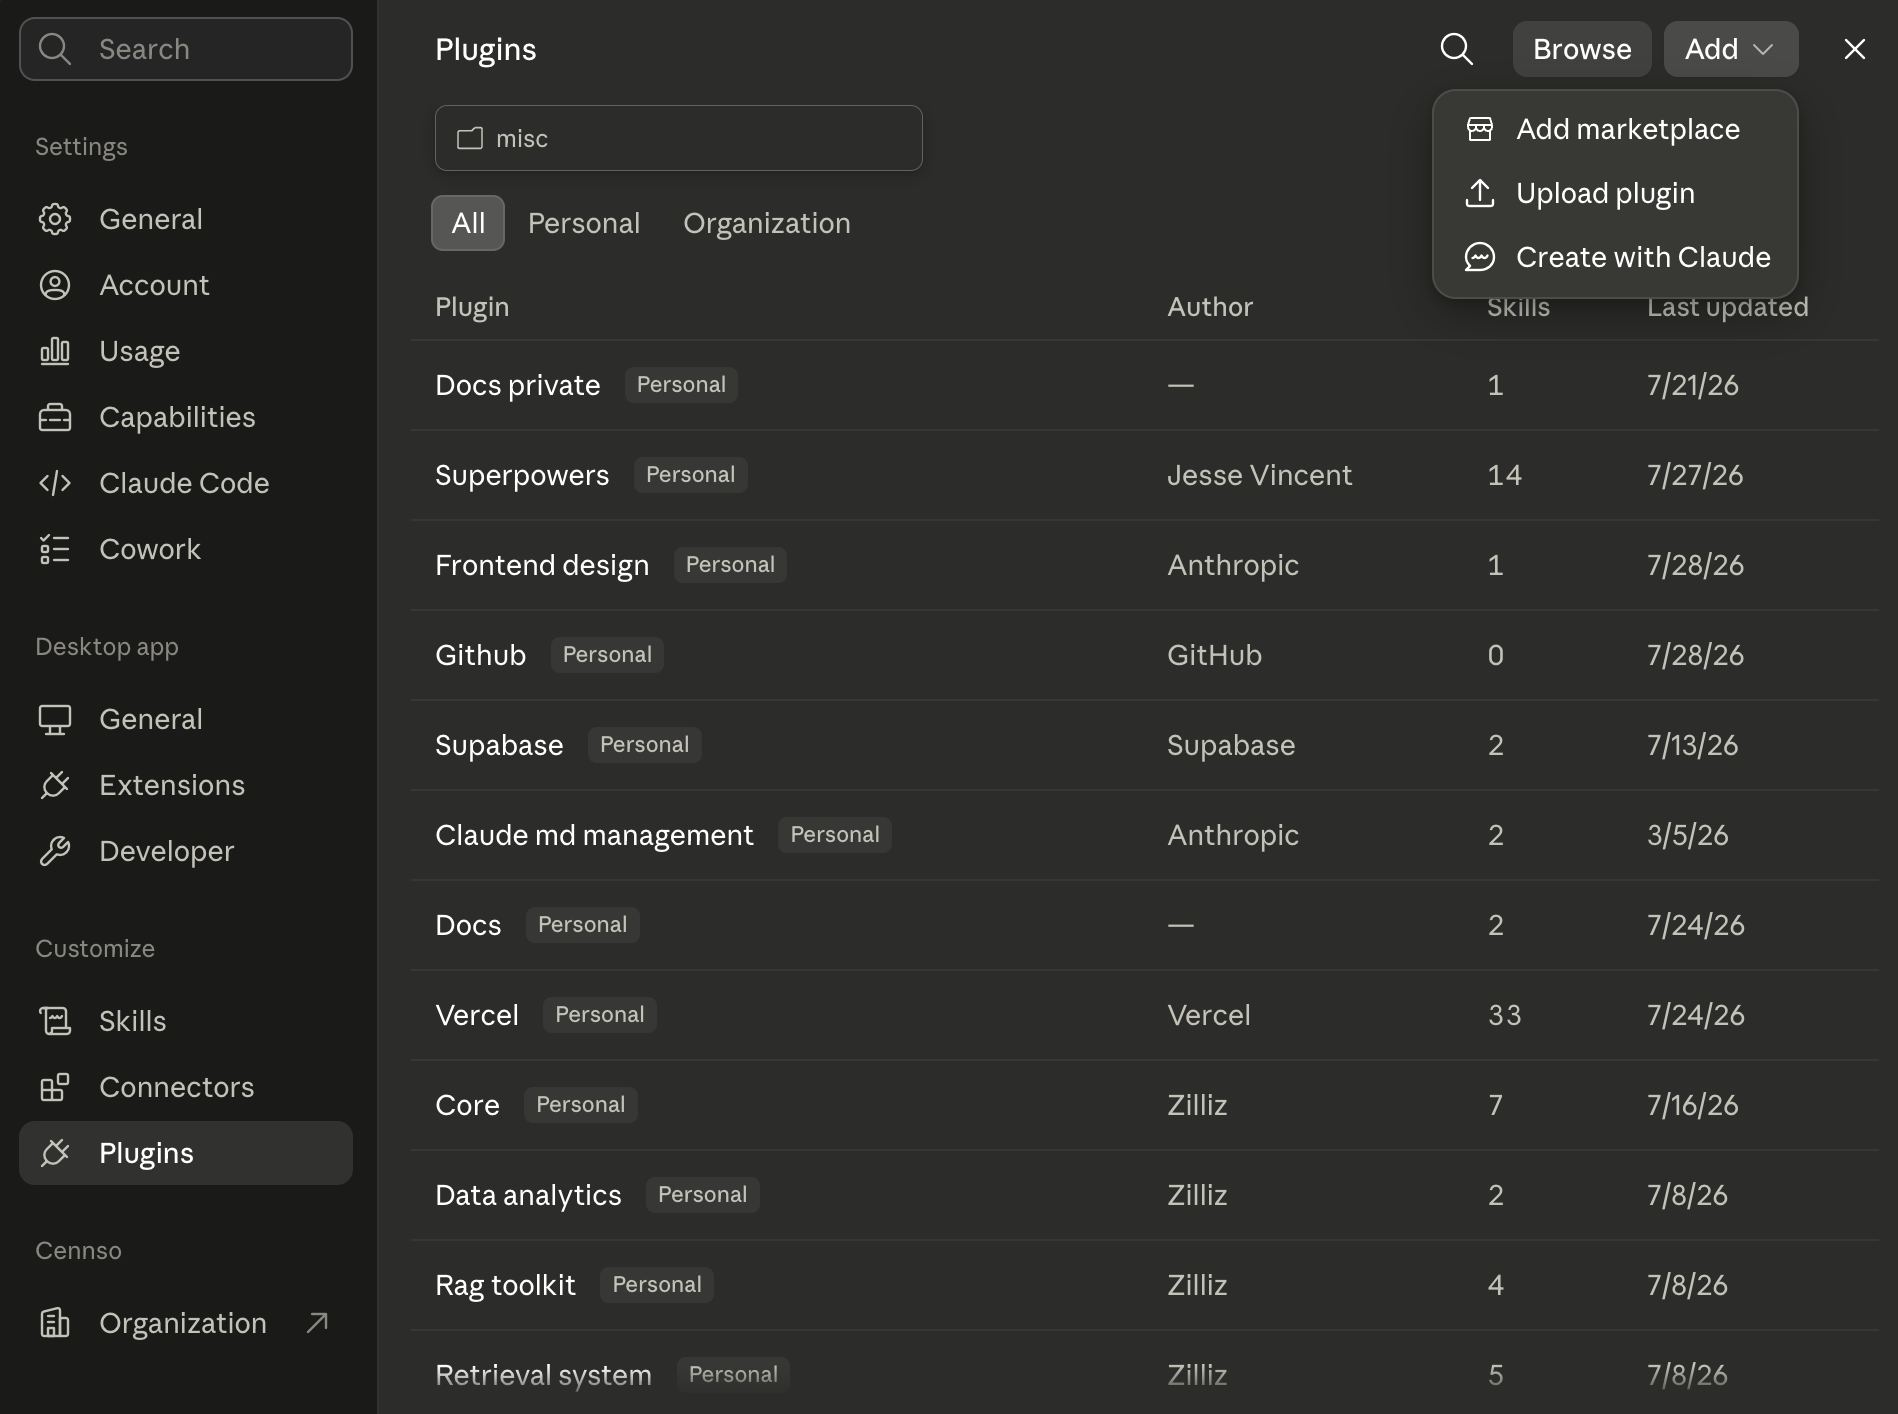
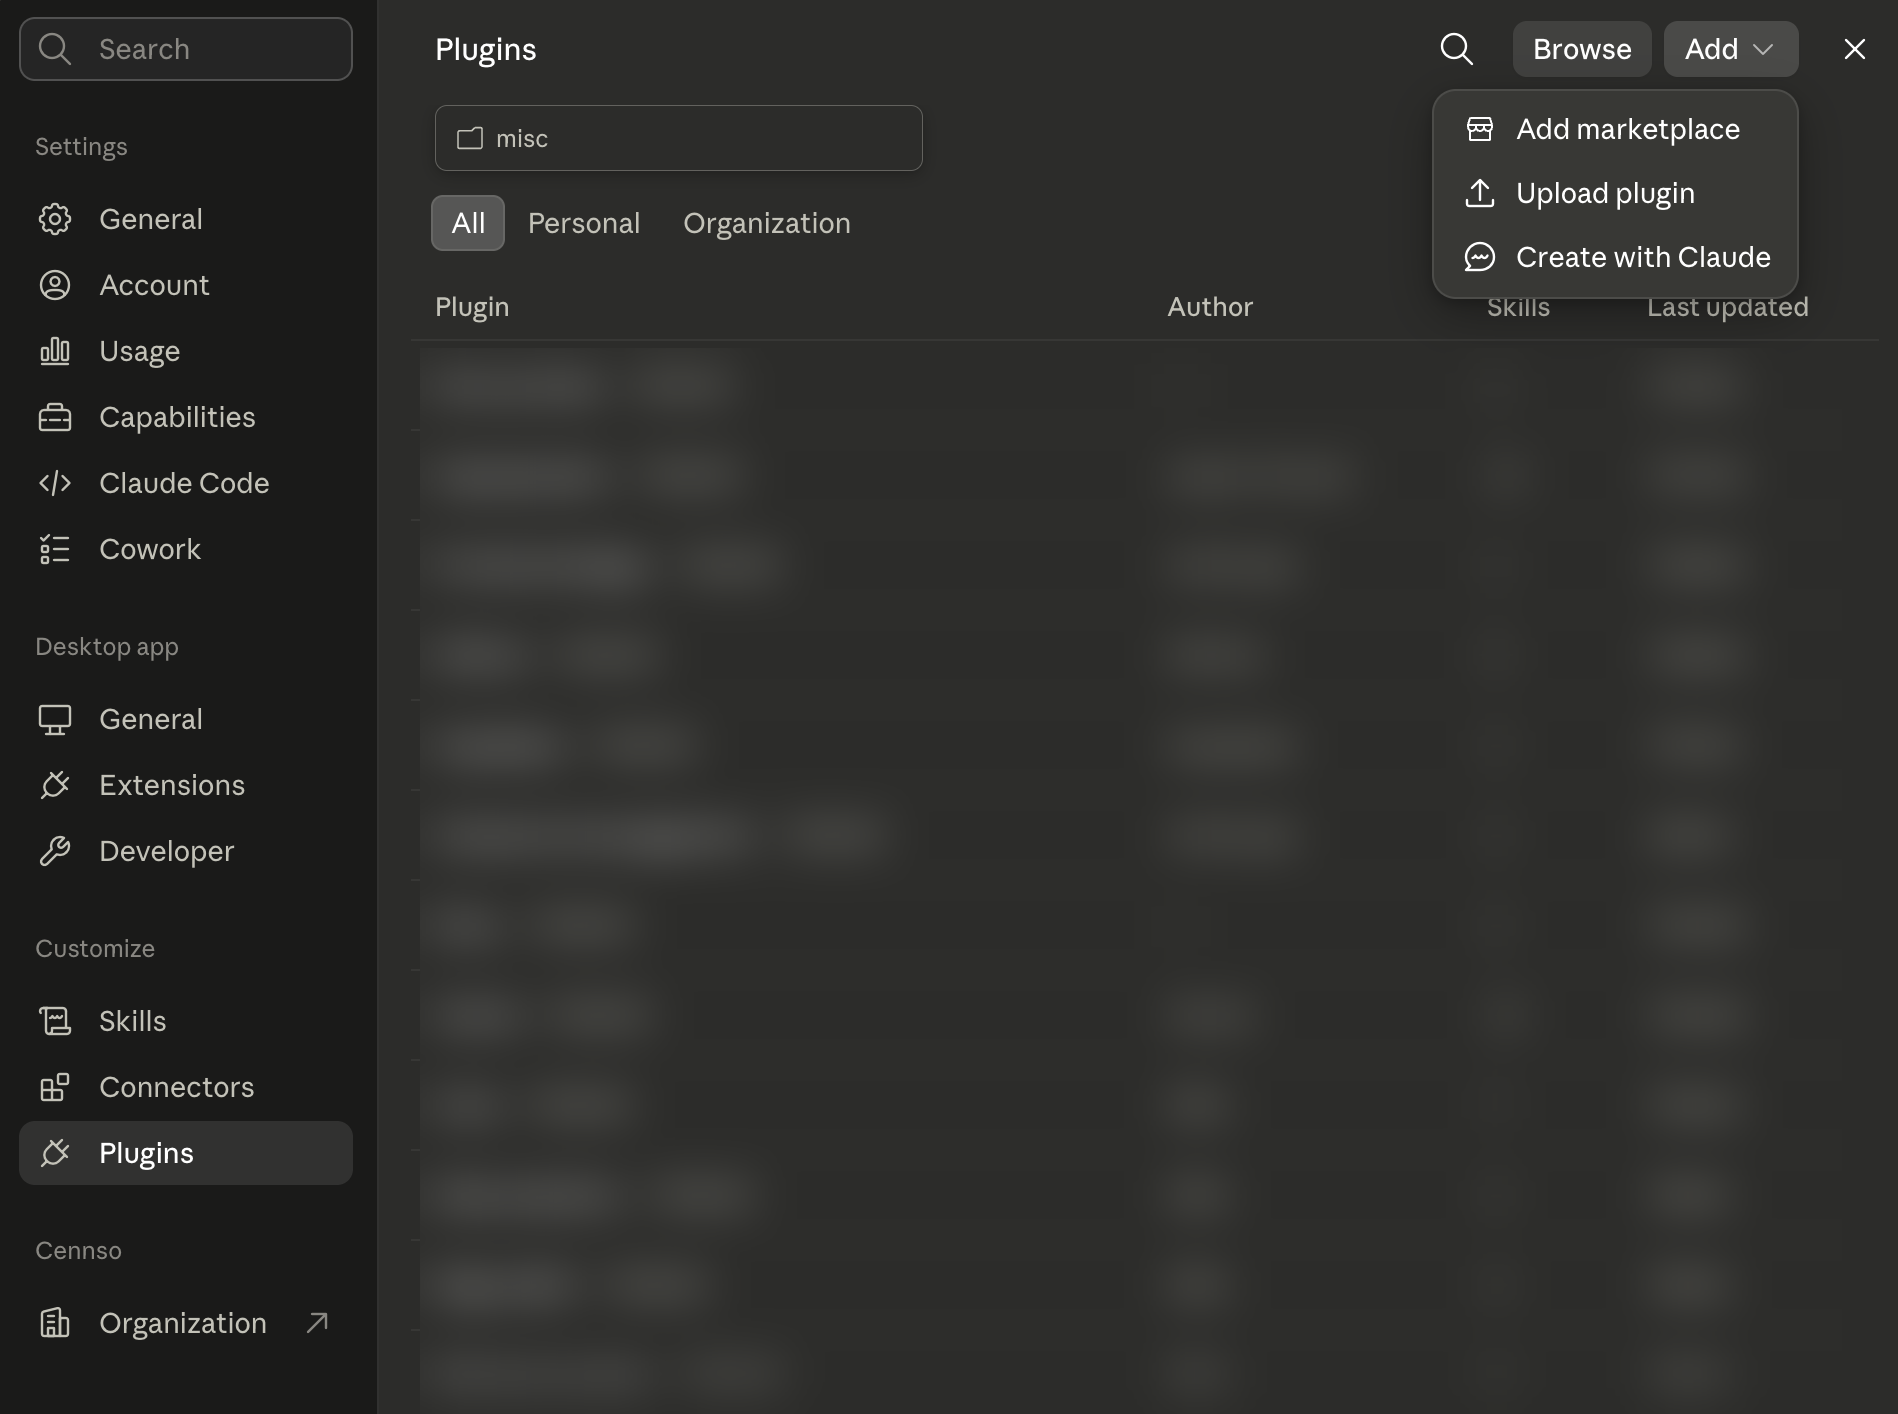
docs: blur installed-plugins list in screenshot and add TOC

diff --git a/README.md b/README.md
@@ -2,6 +2,16 @@
 
 The [Open Source Europe](https://github.com/opensourceeurope) Claude Code plugin marketplace — a single catalog listing the OSE plugins. Each plugin's code lives in its own repository; this repo just points at them.
 
+## Contents
+
+- [Plugins](#plugins)
+- [Install](#install)
+  - [In the Claude Desktop app (no terminal)](#in-the-claude-desktop-app-no-terminal)
+  - [In the Claude Code CLI](#in-the-claude-code-cli)
+- [How it's wired](#how-its-wired)
+- [AI use](#ai-use)
+- [License](#license)
+
 ## Plugins
 
 | Plugin | What it does | Source |
